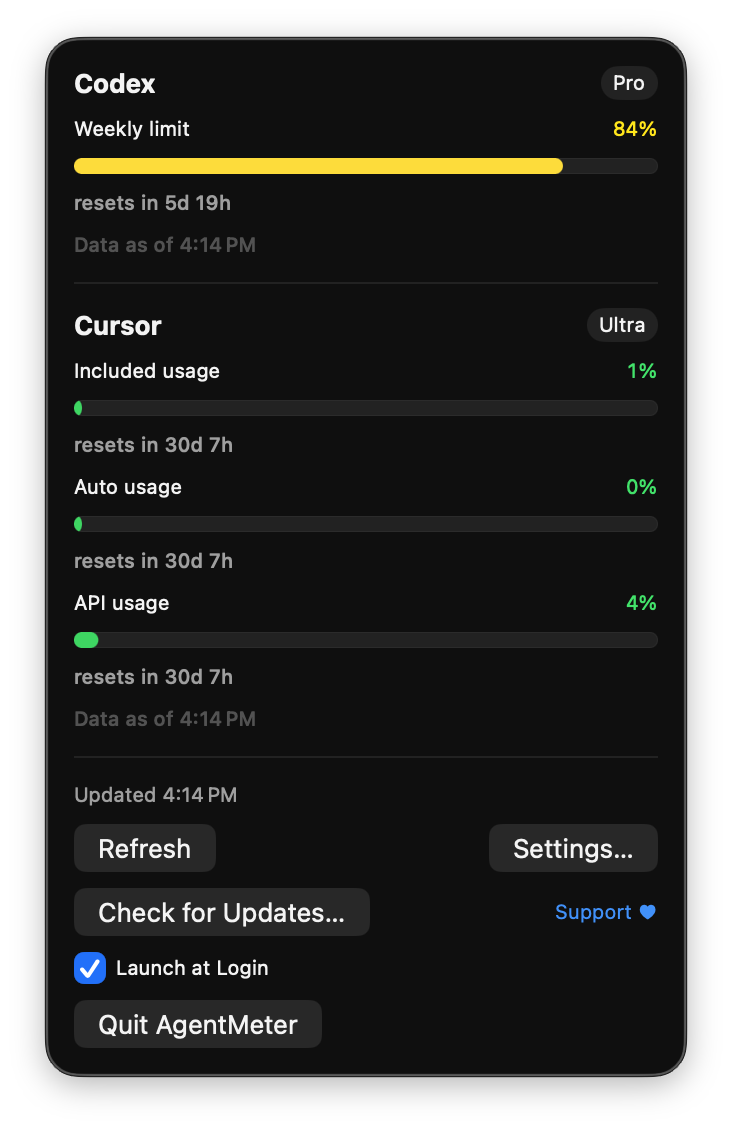
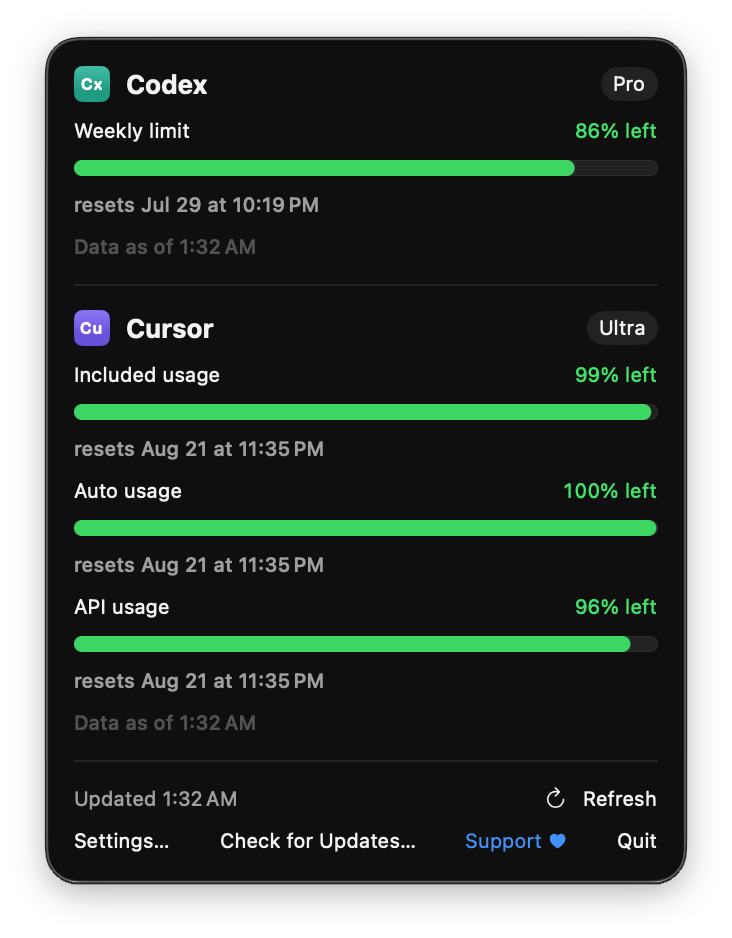
Refresh README screenshots: badges, Settings window, Spanish section

Changed region(s): [[0.0601, 0.0309, 0.9317, 0.9584], [0.9317, 0.8966, 0.9617, 0.9275]]

diff --git a/README.md b/README.md
@@ -11,8 +11,8 @@ Cx 5% · Cu 20% · Cl 40% · Ge 12%
 ```
 
 <p align="center">
-  <img src="Resources/screenshot-dropdown.png" alt="AgentMeter dropdown showing Codex and Cursor usage meters with reset countdowns" width="360" />
-  <img src="Resources/screenshot-settings.png" alt="AgentMeter settings with per-provider Auto/On/Off toggles and refresh interval" width="360" />
+  <img src="Resources/screenshot-dropdown.png" alt="AgentMeter dropdown showing Codex and Cursor usage meters with provider badges, percent-left display, and exact reset times" width="360" />
+  <img src="Resources/screenshot-settings.png" alt="AgentMeter Settings window, Providers tab, with per-provider mode, menu bar visibility, and credential status" width="400" />
 </p>
 
 ## Providers
@@ -94,6 +94,17 @@ Use the "Launch at Login" checkbox in the dropdown to start it automatically.
 - `Sources/AgentMeter/UpdateChecker.swift` — GitHub Releases update check.
 - `scripts/bundle.sh` / `scripts/release.sh` — bundling and signed/notarized release.
 - `.github/workflows/` — CI tests and tagged release automation.
+
+## En español
+
+AgentMeter habla español — la interfaz sigue el idioma de macOS. Translations
+for other languages are welcome: all strings live in a single
+[String Catalog](Sources/AgentMeter/Resources/Localizable.xcstrings), so adding
+a language is a JSON-only pull request.
+
+<p align="center">
+  <img src="Resources/screenshot-dropdown-es.png" alt="AgentMeter en español: medidores de uso con tiempos de restablecimiento" width="360" />
+</p>
 
 ## Support
 